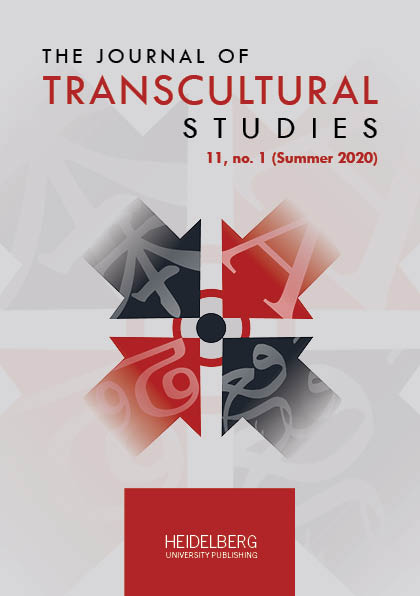
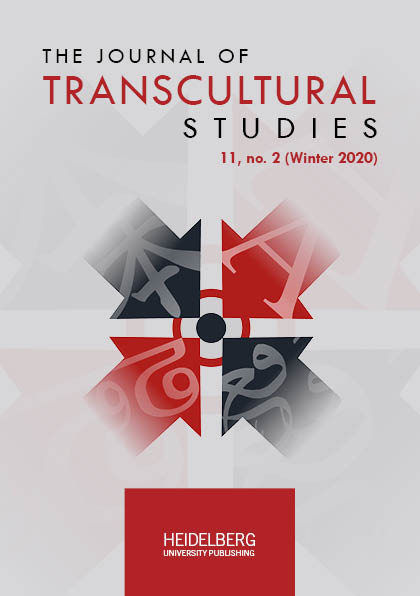
Neuer TC Band

diff --git a/views/home/index.html b/views/home/index.html
@@ -101,6 +101,18 @@ $('.flexslider').flexslider();
       <div class="row">
         <div class="col-lg-12">
           <div class="row">
+		<div class="col-lg-3">              
+                <div class="box">
+                  <div class="box-gray aligncenter">
+                <h4>{{=T('New Titles')}}</h4>
+                <a href="https://heiup.uni-heidelberg.de/journals/index.php/transcultural/issue/view/2410" title="{{=T('current issue')}}">{{=IMG(_src=URL('static','images/journals/cover_tcs.jpg'),_alt='',_style='width:145px', _class='bildrahmen')}}</a>
+
+      			 </div>
+                  <div class="box-bottom"><a href="https://heiup.uni-heidelberg.de/journals/index.php/transcultural/issue/view/2410" title="{{=T('current issue')}}">{{=T('More Information')}}</a>
+                  </div>
+                </div>
+          </div>   
+
 
 		<div class="col-lg-3">              
                 <div class="box">
@@ -112,21 +124,7 @@ $('.flexslider').flexslider();
                   </div>
                 </div>
         </div> 
-
-
-		<div class="col-lg-3">              
-                <div class="box">
-                  <div class="box-gray aligncenter">
-                <h4>{{=T('New Titles')}}</h4>
-                <a href="https://heiup.uni-heidelberg.de/journals/index.php/rupertocarola/issue/view/2409" title="{{=T('current issue')}}">{{=IMG(_src=URL('static','images/campusmedia/cover_02_2021.jpg'),_alt='',_style='width:145px', _class='bildrahmen')}}</a>
-
-      			 </div>
-                  <div class="box-bottom"><a href="https://heiup.uni-heidelberg.de/journals/index.php/rupertocarola/issue/view/2409" title="{{=T('current issue')}}">{{=T('More Information')}}</a>
-                  </div>
-                </div>
-          </div>                             
-
-
+                         
 
 
 
@@ -179,7 +177,17 @@ $('.flexslider').flexslider();
                 </div>
               </div>
             </div> 
-            
+ 		<div class="col-lg-3">              
+                <div class="box">
+                  <div class="box-gray aligncenter">
+                <h4>{{=T('New Titles')}}</h4>
+                {{=A(IMG(_src=URL(myconf.take('web.application'),'static','files/presses/6/monographs/650/simple/cover.jpg'),_alt='',_style='width:145px', _class='bildrahmen'),_href=URL('catalog','book/650'))}} 
+      			 </div>
+                  <div class="box-bottom">{{=A(T('More Information'),_href=URL('catalog','book/650'))}}
+                  </div>
+                </div>
+        </div>    
+		
 		<div class="col-lg-3">              
                 <div class="box">
                   <div class="box-gray aligncenter">
@@ -203,16 +211,7 @@ $('.flexslider').flexslider();
                 </div>
           </div>            
             
-		<div class="col-lg-3">              
-                <div class="box">
-                  <div class="box-gray aligncenter">
-                <h4>{{=T('New Titles')}}</h4>
-                {{=A(IMG(_src=URL(myconf.take('web.application'),'static','files/presses/6/monographs/650/simple/cover.jpg'),_alt='',_style='width:145px', _class='bildrahmen'),_href=URL('catalog','book/650'))}} 
-      			 </div>
-                  <div class="box-bottom">{{=A(T('More Information'),_href=URL('catalog','book/650'))}}
-                  </div>
-                </div>
-        </div>             
+           
             
 
 
@@ -241,6 +240,7 @@ $('.flexslider').flexslider();
         <div class="row">
           <div class="col-lg-12">
             <div class="row">	
+		
           <div class="col-lg-3">
                 <div class="box">
                   <div class="box-gray aligncenter">
